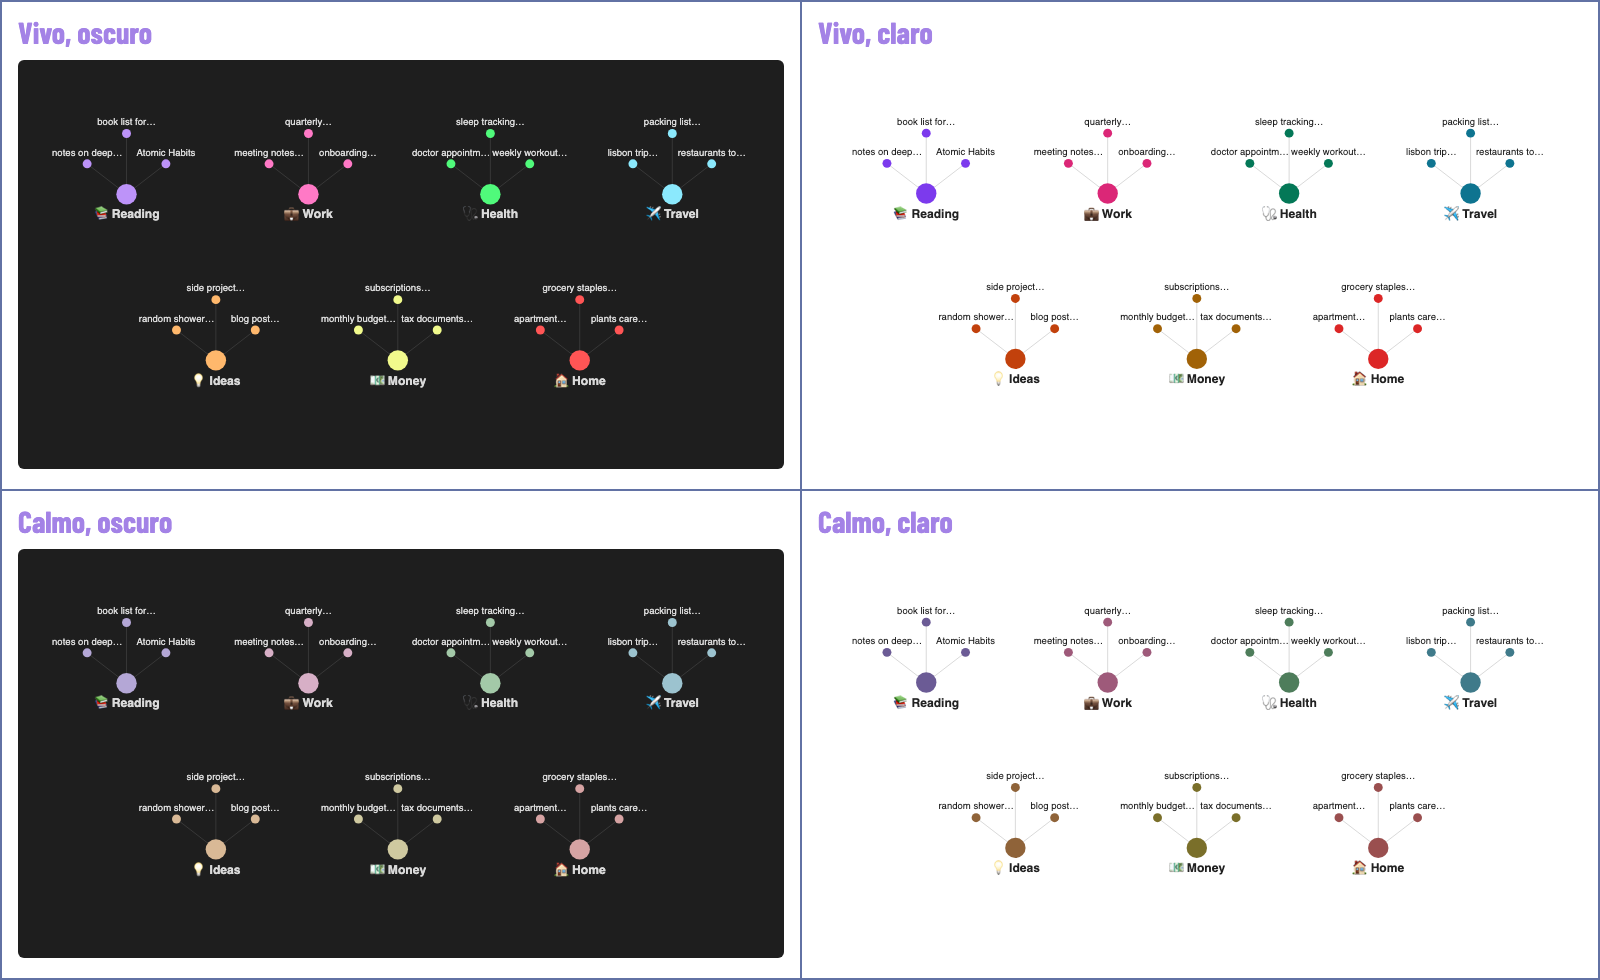
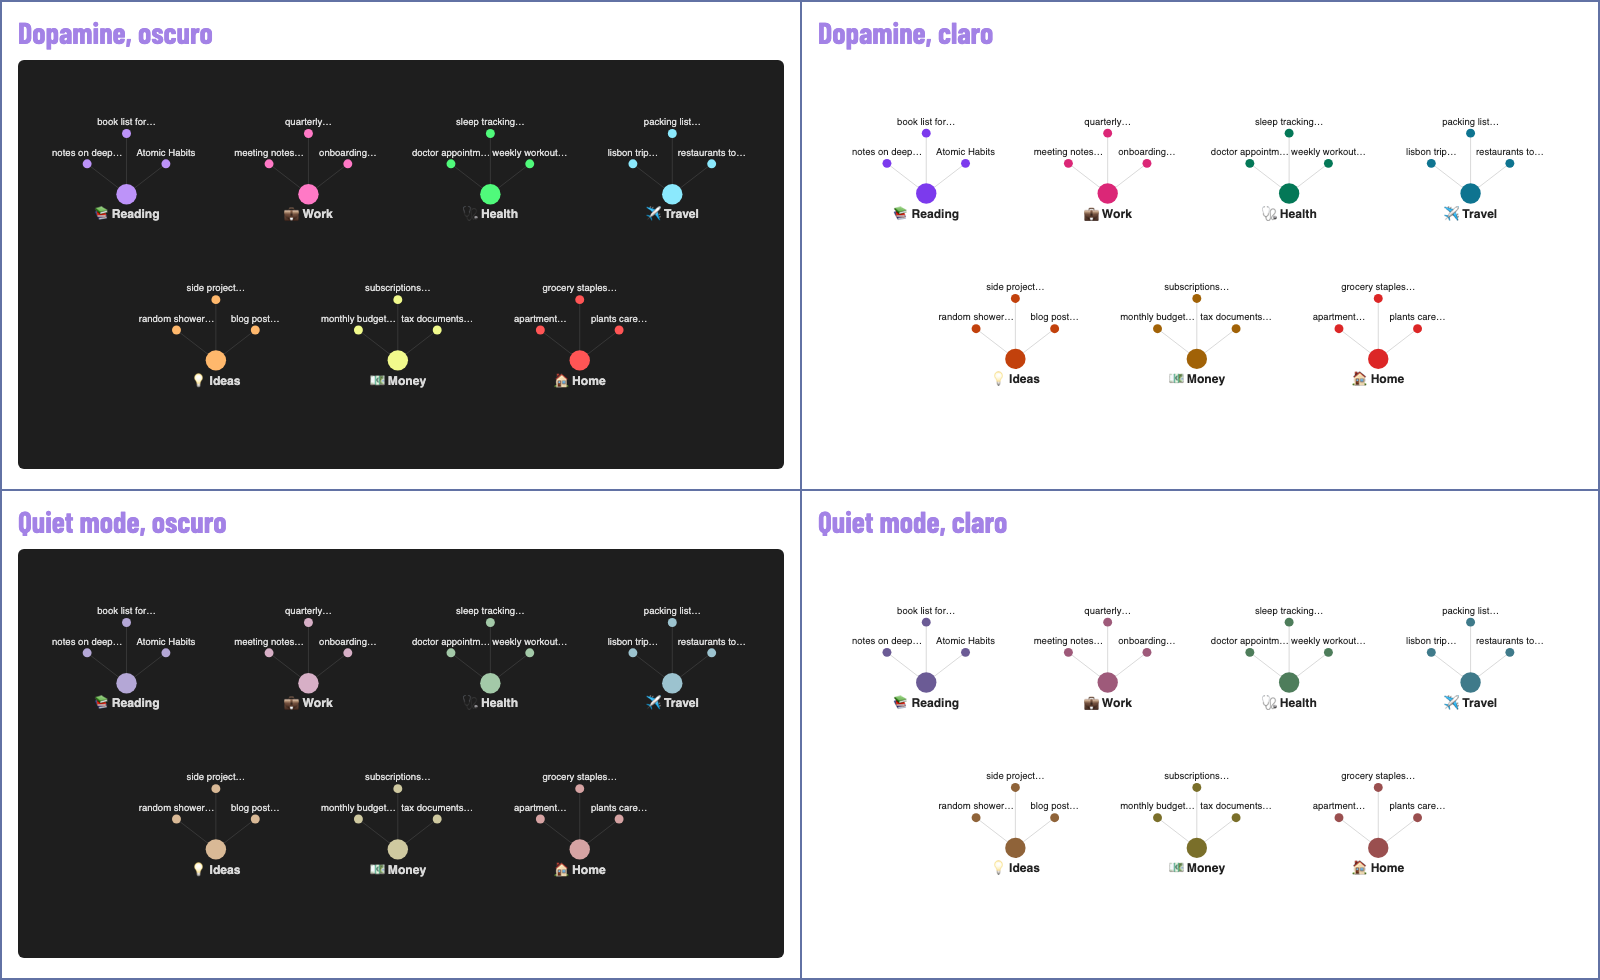
1.0.2: palettes renamed to Dopamine and Quiet mode
Display names only: a saved palette setting keeps working.

Built with Claude Code.

diff --git a/main.js b/main.js
@@ -2,7 +2,7 @@
 /*
  * ADHD Hyperfocus Graph
  * A calmer graph view for ADHD and dyslexic brains: short labels, topic hubs, a focus layout,
- * vivid or calm palettes, still motion and bigger text. It never edits your notes: topic hubs
+ * Dopamine or Quiet mode palettes, still motion and bigger text. It never edits your notes: topic hubs
  * are separate notes inside one folder, and everything else only changes how the graph is drawn.
  *
  * Plain JavaScript, no build step. The pure functions at the top are exported for the tests in test/.
@@ -51,9 +51,9 @@ const STRINGS = {
     sSize: "Label size",
     sSizeDesc: "Bigger text is easier to read. 1 is the Obsidian size.",
     sPalette: "Palette",
-    sPaletteDesc: "Vivid is bright and easy to tell apart. Calm is soft and quiet. Light or dark follows your Obsidian theme.",
-    pVivid: "Vivid",
-    pCalm: "Calm",
+    sPaletteDesc: "Dopamine is bright and easy to tell apart. Quiet mode is soft and low-key. Light or dark follows your Obsidian theme.",
+    pVivid: "Dopamine",
+    pCalm: "Quiet mode",
     sCb: "Colors for color blindness",
     sCbDesc: "Uses a palette that people with color blindness can tell apart.",
     sStill: "Still graph",
@@ -121,9 +121,9 @@ const STRINGS = {
     sSize: "Tamaño de letra",
     sSizeDesc: "La letra más grande se lee mejor. 1 es el tamaño de Obsidian.",
     sPalette: "Paleta",
-    sPaletteDesc: "Vivo es brillante y fácil de distinguir. Calmo es suave y tranquilo. Claro u oscuro sigue el tema de Obsidian.",
-    pVivid: "Vivo",
-    pCalm: "Calmo",
+    sPaletteDesc: "Dopamine es brillante y fácil de distinguir. Quiet mode es suave y tranquilo. Claro u oscuro sigue el tema de Obsidian.",
+    pVivid: "Dopamine",
+    pCalm: "Quiet mode",
     sCb: "Colores para daltonismo",
     sCbDesc: "Usa una paleta que se distingue bien con daltonismo.",
     sStill: "Grafo quieto",

diff --git a/README.es.md b/README.es.md
@@ -20,7 +20,7 @@ Este plugin mantiene el grafo que ya tenés y lo vuelve lo bastante tranquilo co
 
 🌙 **Un layout tranquilo.** Las notas de sistema salen del grafo, las etiquetas quedan visibles y la simulación se frena cuando los nodos se acomodan.
 
-🎨 **Tus colores.** Dos paletas, Vivo y Calmo. Claro u oscuro sigue tu tema. Hay una paleta para daltonismo.
+🎨 **Tus colores.** Dos paletas, Dopamine y Quiet mode. Claro u oscuro sigue tu tema. Hay una paleta para daltonismo.
 
 <picture>
   <source media="(prefers-color-scheme: dark)" srcset="images/never-edits-es-dark.png">
@@ -29,12 +29,12 @@ Este plugin mantiene el grafo que ya tenés y lo vuelve lo bastante tranquilo co
 
 <h3><img src="images/h-palettes-es.png" alt="Paletas" width="800"></h3>
 
-<p align="center"><img src="images/palettes-es.png" alt="El mismo grafo en Vivo y en Calmo, cada una en modo oscuro y claro."></p>
+<p align="center"><img src="images/palettes-es.png" alt="El mismo grafo en Dopamine y en Quiet mode, cada una en modo oscuro y claro."></p>
 
 <h3><img src="images/h-start-es.png" alt="Empezá en 3 pasos" width="800"></h3>
 
 1. Instalá y activá el plugin desde [Community plugins](https://obsidian.md/help/community-plugins).
-2. Elegí Vivo o Calmo, y marcá las carpetas que para vos son temas.
+2. Elegí Dopamine o Quiet mode, y marcá las carpetas que para vos son temas.
 3. Abrí el grafo.
 
 Con el comando **Abrir el arranque en 3 pasos** lo volvés a ver. Todo aparece en castellano si Obsidian está en castellano.
@@ -112,4 +112,4 @@ Así que lo armé.
 
 ---
 
-🎨 Hecho por [Soledad De Rosa](https://www.linkedin.com/in/soldr). Licencia MIT.
+🎨 Hecho por [Soledad De Rosa](https://www.linkedin.com/in/soldr). Construido con [Claude Code](https://claude.com/claude-code). Licencia MIT.

diff --git a/README.md b/README.md
@@ -20,7 +20,7 @@ This plugin keeps the graph you already have and makes it calm enough to think w
 
 🌙 **A calm layout.** System notes leave the graph, labels stay visible, and the simulation stops once the nodes settle.
 
-🎨 **Your colors.** Two palettes, Vivid and Calm. Light or dark follows your theme. There is also a palette for color blindness.
+🎨 **Your colors.** Two palettes, Dopamine and Quiet mode. Light or dark follows your theme. There is also a palette for color blindness.
 
 <picture>
   <source media="(prefers-color-scheme: dark)" srcset="images/never-edits-en-dark.png">
@@ -29,12 +29,12 @@ This plugin keeps the graph you already have and makes it calm enough to think w
 
 <h3><img src="images/h-palettes-en.png" alt="Palettes" width="800"></h3>
 
-<p align="center"><img src="images/palettes-en.png" alt="The same graph in Vivid and Calm, each in dark and light mode."></p>
+<p align="center"><img src="images/palettes-en.png" alt="The same graph in Dopamine and Quiet mode, each in dark and light mode."></p>
 
 <h3><img src="images/h-start-en.png" alt="Start in 3 steps" width="800"></h3>
 
 1. Install and enable the plugin from [Community plugins](https://obsidian.md/help/community-plugins).
-2. Pick Vivid or Calm, tick the folders that are topics for you.
+2. Pick Dopamine or Quiet mode, tick the folders that are topics for you.
 3. Open the graph.
 
 Run the command **Open the 3-step setup** to see it again.
@@ -112,4 +112,4 @@ Found a bug? Got an idea? Does the graph look weird in your vault? Let me know!
 
 ---
 
-🎨 Made by [Soledad De Rosa](https://www.linkedin.com/in/soldr). MIT license.
+🎨 Made by [Soledad De Rosa](https://www.linkedin.com/in/soldr). Built with [Claude Code](https://claude.com/claude-code). MIT license.
